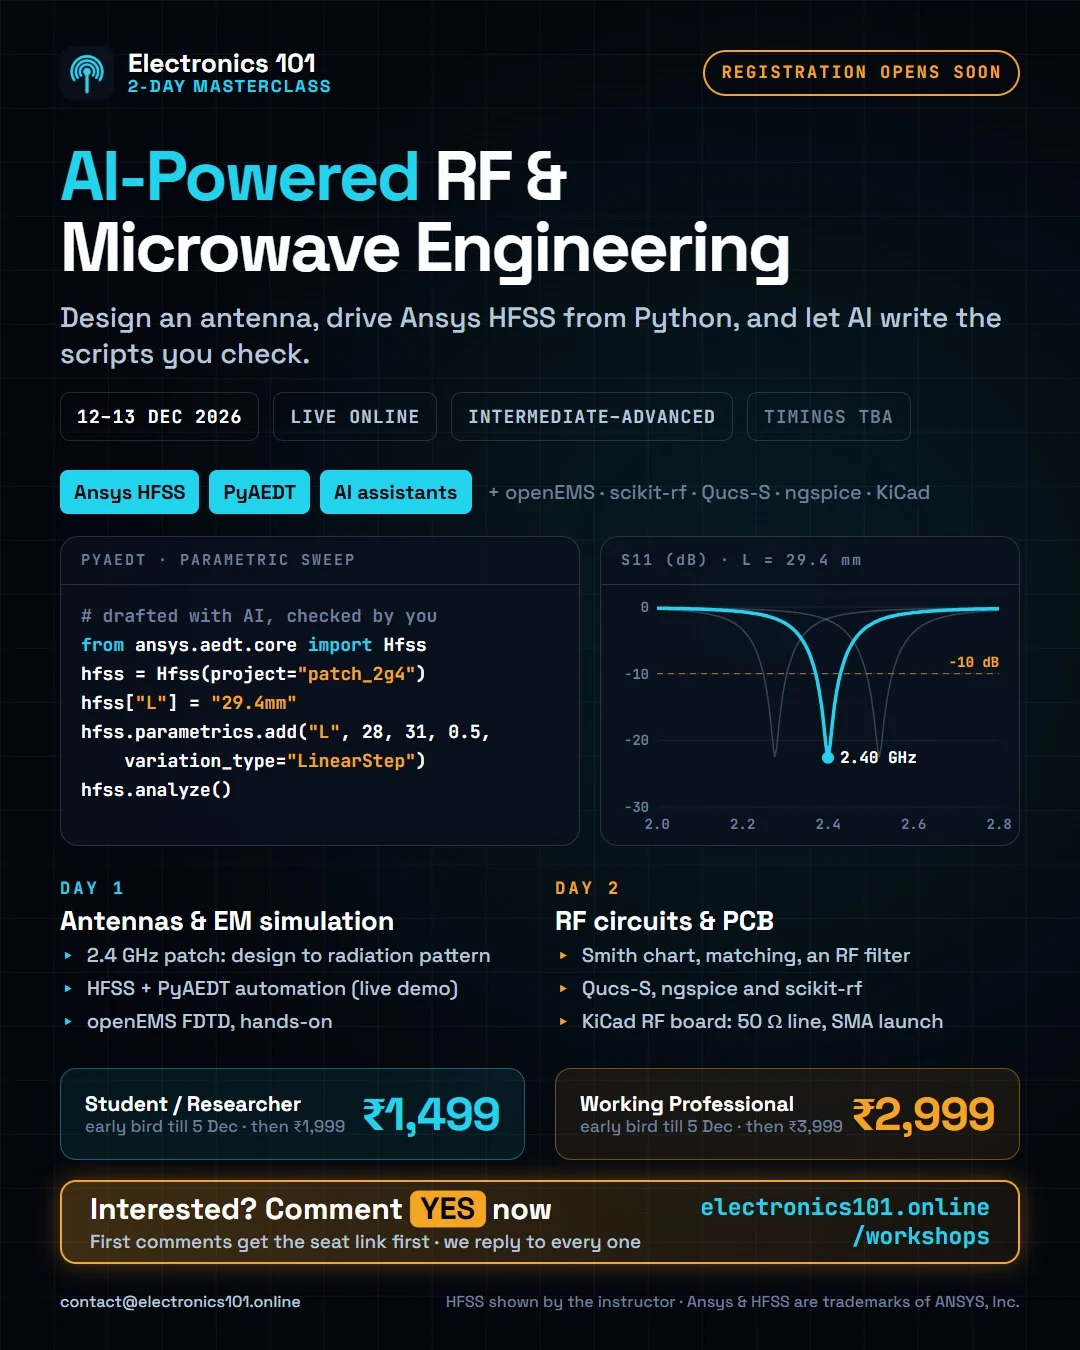
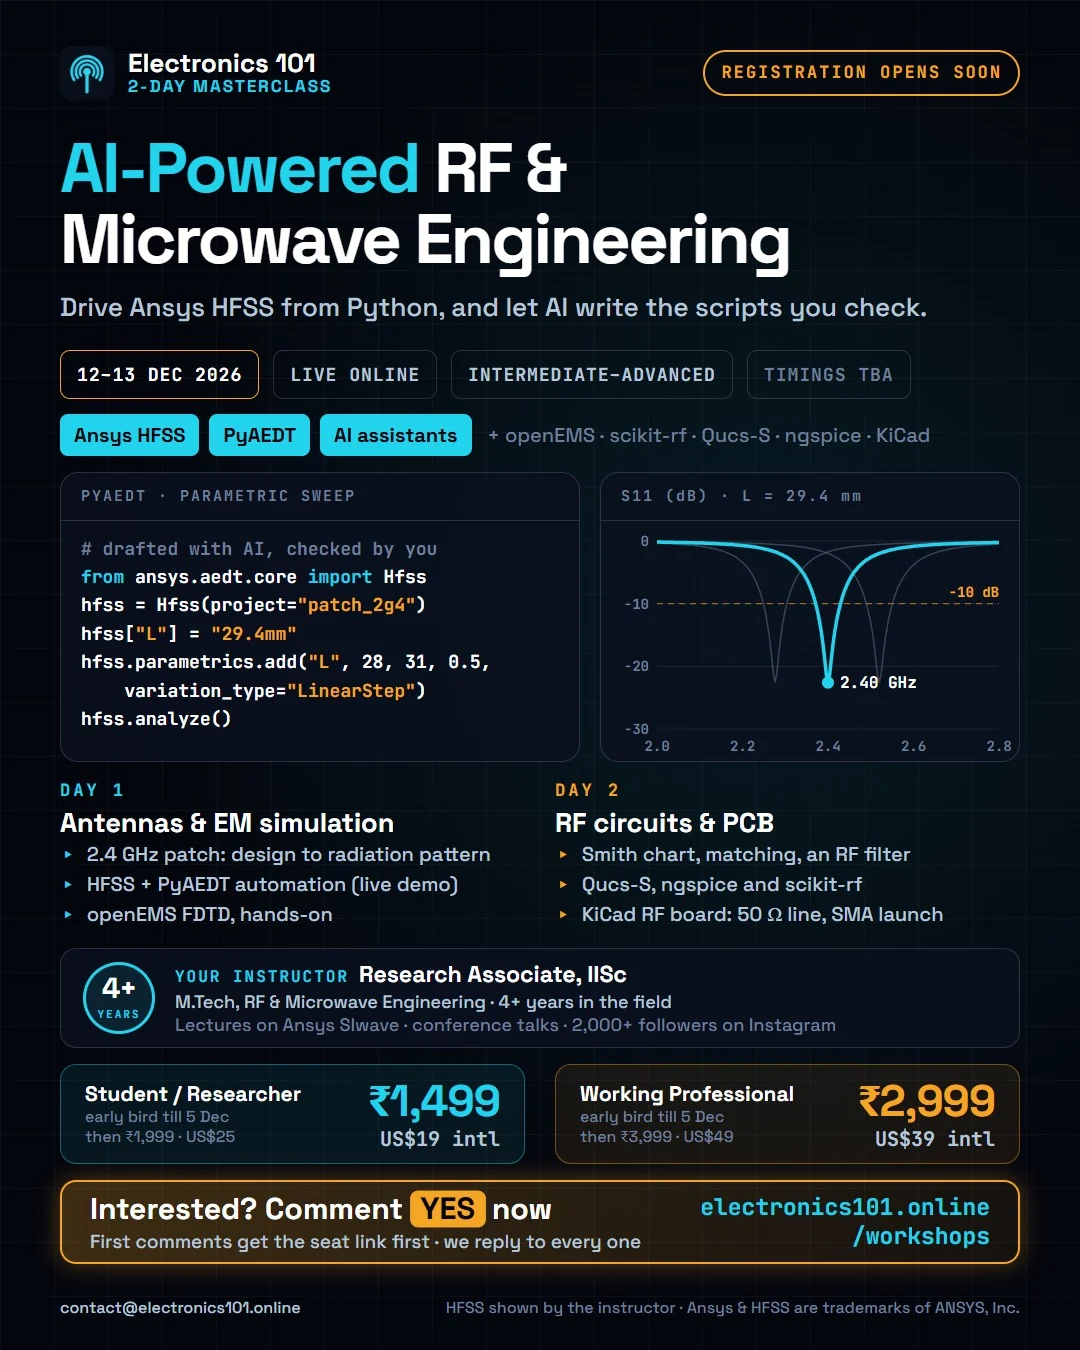
feat(workshops): January batch, US$ prices and instructor credentials
- AI-Powered RF masterclass, January batch: 2-3 Jan 2027 (Sat-Sun), same
  programme and prices, early bird till 26 Dec, own poster image.
- International prices beside the rupee ones: US$19 / US$39 early bird,
  US$25 / US$49 after (new optional priceUsd / standardPriceUsd on a tier).
- Instructor shown by credentials only, no name or photo (user, 2026-11-22):
  M.Tech RF & Microwave, Research Associate at IISc, lectures on Ansys
  SIwave and conference talks, 4+ years, 2,000+ Instagram followers.
- December poster refreshed with the comment-YES call to action.

Claude-Session: https://claude.ai/code/session_01KU8XNnGko7zA7XhxfYRQbX

diff --git a/src/content/workshops.ts b/src/content/workshops.ts
@@ -226,6 +226,137 @@ const antenna101Slot2: Workshop = {
 
 /* Slot 1 (21–25 Nov 2026) is no longer listed (user, 2026-11-22). Its object
  * stays above because Slot 2 is built from it. */
+/*
+ * Announced before registration opens (user, 2026-11-22). The tiers have no
+ * payment links yet, so the page offers an enquiry instead of Register.
+ * Timings are not fixed: `timeTba` keeps the site from showing an hour.
+ * HFSS is an instructor demo; the hands-on parts use free tools.
+ */
+const airfDec: Workshop = {
+  slug: "ai-powered-rf-microwave-engineering",
+  title: "AI-Powered RF & Microwave Engineering",
+  subtitle: "Antenna design, EM simulation and automation",
+  summary:
+    "Two days, live and online: HFSS with PyAEDT scripting, openEMS, scikit-rf, Qucs-S and KiCad, with AI used to write and debug the engineering scripts.",
+  description:
+    "A two-day masterclass on the modern RF workflow. You design a 2.4 GHz patch antenna, watch it built and swept in Ansys HFSS and driven from Python through PyAEDT, then simulate it yourself in openEMS. Day two moves to circuits and boards: S-parameters and Smith charts, matching networks and a filter in Qucs-S and ngspice, network analysis in scikit-rf, and an RF board in KiCad with a 50 Ω line and an SMA launch. Throughout, AI assistants are used the way an engineer would use them: to draft scripts, check calculations and find bugs, with every result checked against the physics.",
+  startsAt: "2026-12-12T10:00:00+05:30",
+  timeTba: true,
+  endsAt: "2026-12-13T17:00:00+05:30",
+  earlyBirdUntil: "2026-12-05T23:59:00+05:30",
+  durationLabel: "2 days · timings to be announced",
+  mode: "Live Online",
+  level: "Advanced",
+  domains: ["RF", "Antenna", "Simulation", "PCB", "AI"],
+  days: [
+    {
+      day: 1,
+      title: "Antennas, HFSS automation and open-source EM",
+      points: [
+        "Antenna fundamentals and design calculations",
+        "AI-assisted antenna design and optimisation",
+        "2.4 GHz microstrip patch: model, setup, S11 and pattern",
+        "HFSS driven from Python with PyAEDT: parametric sweeps (instructor demo)",
+        "openEMS FDTD: geometry, mesh, boundaries and results (hands-on)",
+      ],
+    },
+    {
+      day: 2,
+      title: "RF circuits, PCB and automation",
+      points: [
+        "S-parameters and Smith charts",
+        "Impedance matching and an RF filter in Qucs-S and ngspice",
+        "Network analysis with scikit-rf",
+        "RF schematic and PCB in KiCad: 50 Ω lines and SMA launches",
+        "Python analysis scripts, written and debugged with AI help",
+      ],
+    },
+  ],
+  topics: [
+    "Ansys HFSS",
+    "PyAEDT",
+    "openEMS",
+    "scikit-rf",
+    "Qucs-S",
+    "ngspice",
+    "KiCad",
+    "Python",
+    "AI-assisted scripting",
+  ],
+  projectFlow: [
+    "2.4 GHz patch antenna",
+    "HFSS + PyAEDT automation",
+    "Filter and matching network",
+    "RF PCB and transmission line",
+  ],
+  includes: [
+    "Two days of live sessions with Q&A",
+    "Digital certificate of participation",
+    "Project files, Python scripts and simulation examples",
+    "A prompt library for engineering scripts",
+    "Reference notes",
+  ],
+  audience: [
+    "B.Tech / M.Tech students",
+    "PhD scholars and researchers",
+    "Antenna and RF engineers",
+    "Microwave and electronics engineers",
+    "PCB design engineers",
+    "Faculty members",
+  ],
+  tiers: [
+    {
+      id: "student",
+      label: "Student / Researcher",
+      forWho: "Students, PhD scholars and researchers.",
+      priceInr: 1499,
+      standardPriceInr: 1999,
+      priceUsd: 19,
+      standardPriceUsd: 25,
+      href: null,
+      note: "Early bird",
+    },
+    {
+      id: "professional",
+      label: "Working Professional",
+      forWho: "Working engineers, faculty and company-sponsored participants.",
+      priceInr: 2999,
+      standardPriceInr: 3999,
+      priceUsd: 39,
+      standardPriceUsd: 49,
+      href: null,
+      note: "Early bird",
+    },
+  ],
+  /** The headline figure on cards is the lowest seat price. */
+  priceInr: 1499,
+  status: "Registration Soon",
+  instructorId: "lead",
+  /* The PR10 poster from shorts/out/PR10-AiRf.jpg. */
+  image: "/images/workshop-ai-rf.webp",
+  imageOrientation: "portrait",
+  disclaimer:
+    "Ansys and HFSS are trademarks of ANSYS, Inc. HFSS is shown by the instructor; participants need no Ansys licence for the hands-on parts. Electronics 101 is an independent educational initiative.",
+};
+
+/*
+ * The January batch (user, 2026-11-22): same programme, tiers and prices, run on the first
+ * weekend of 2027. Early bird ends 7 days before it starts. Timings not fixed yet.
+ */
+const airfJan: Workshop = {
+  ...airfDec,
+  slug: "ai-powered-rf-microwave-engineering-january",
+  title: "AI-Powered RF & Microwave Engineering — January batch",
+  subtitle: "Start the new year with new skills",
+  summary:
+    "Start the new year with new skills: two days, live and online, with HFSS and PyAEDT, openEMS, scikit-rf, Qucs-S and KiCad, and AI to write and debug the engineering scripts.",
+  startsAt: "2027-01-02T10:00:00+05:30",
+  endsAt: "2027-01-03T17:00:00+05:30",
+  earlyBirdUntil: "2026-12-26T23:59:00+05:30",
+  /* Frame 0 of the PR12 January poster. */
+  image: "/images/workshop-ai-rf-january.webp",
+};
+
 export const workshops: Workshop[] = [
   antenna101Slot2,
   {
@@ -302,114 +433,8 @@ export const workshops: Workshop[] = [
     instructorId: "lead",
     image: "/images/workshop-rf-antenna.jpg",
   },
-  /*
-   * Announced before registration opens (user, 2026-11-22). The tiers have no
-   * payment links yet, so the page offers an enquiry instead of Register.
-   * Timings are not fixed: `timeTba` keeps the site from showing an hour.
-   * HFSS is an instructor demo; the hands-on parts use free tools.
-   */
-  {
-    slug: "ai-powered-rf-microwave-engineering",
-    title: "AI-Powered RF & Microwave Engineering",
-    subtitle: "Antenna design, EM simulation and automation",
-    summary:
-      "Two days, live and online: HFSS with PyAEDT scripting, openEMS, scikit-rf, Qucs-S and KiCad, with AI used to write and debug the engineering scripts.",
-    description:
-      "A two-day masterclass on the modern RF workflow. You design a 2.4 GHz patch antenna, watch it built and swept in Ansys HFSS and driven from Python through PyAEDT, then simulate it yourself in openEMS. Day two moves to circuits and boards: S-parameters and Smith charts, matching networks and a filter in Qucs-S and ngspice, network analysis in scikit-rf, and an RF board in KiCad with a 50 Ω line and an SMA launch. Throughout, AI assistants are used the way an engineer would use them: to draft scripts, check calculations and find bugs, with every result checked against the physics.",
-    startsAt: "2026-12-12T10:00:00+05:30",
-    timeTba: true,
-    endsAt: "2026-12-13T17:00:00+05:30",
-    earlyBirdUntil: "2026-12-05T23:59:00+05:30",
-    durationLabel: "2 days · timings to be announced",
-    mode: "Live Online",
-    level: "Advanced",
-    domains: ["RF", "Antenna", "Simulation", "PCB", "AI"],
-    days: [
-      {
-        day: 1,
-        title: "Antennas, HFSS automation and open-source EM",
-        points: [
-          "Antenna fundamentals and design calculations",
-          "AI-assisted antenna design and optimisation",
-          "2.4 GHz microstrip patch: model, setup, S11 and pattern",
-          "HFSS driven from Python with PyAEDT: parametric sweeps (instructor demo)",
-          "openEMS FDTD: geometry, mesh, boundaries and results (hands-on)",
-        ],
-      },
-      {
-        day: 2,
-        title: "RF circuits, PCB and automation",
-        points: [
-          "S-parameters and Smith charts",
-          "Impedance matching and an RF filter in Qucs-S and ngspice",
-          "Network analysis with scikit-rf",
-          "RF schematic and PCB in KiCad: 50 Ω lines and SMA launches",
-          "Python analysis scripts, written and debugged with AI help",
-        ],
-      },
-    ],
-    topics: [
-      "Ansys HFSS",
-      "PyAEDT",
-      "openEMS",
-      "scikit-rf",
-      "Qucs-S",
-      "ngspice",
-      "KiCad",
-      "Python",
-      "AI-assisted scripting",
-    ],
-    projectFlow: [
-      "2.4 GHz patch antenna",
-      "HFSS + PyAEDT automation",
-      "Filter and matching network",
-      "RF PCB and transmission line",
-    ],
-    includes: [
-      "Two days of live sessions with Q&A",
-      "Digital certificate of participation",
-      "Project files, Python scripts and simulation examples",
-      "A prompt library for engineering scripts",
-      "Reference notes",
-    ],
-    audience: [
-      "B.Tech / M.Tech students",
-      "PhD scholars and researchers",
-      "Antenna and RF engineers",
-      "Microwave and electronics engineers",
-      "PCB design engineers",
-      "Faculty members",
-    ],
-    tiers: [
-      {
-        id: "student",
-        label: "Student / Researcher",
-        forWho: "Students, PhD scholars and researchers.",
-        priceInr: 1499,
-        standardPriceInr: 1999,
-        href: null,
-        note: "Early bird",
-      },
-      {
-        id: "professional",
-        label: "Working Professional",
-        forWho: "Working engineers, faculty and company-sponsored participants.",
-        priceInr: 2999,
-        standardPriceInr: 3999,
-        href: null,
-        note: "Early bird",
-      },
-    ],
-    /** The headline figure on cards is the lowest seat price. */
-    priceInr: 1499,
-    status: "Registration Soon",
-    instructorId: "lead",
-    /* The PR10 poster from shorts/out/PR10-AiRf.jpg. */
-    image: "/images/workshop-ai-rf.webp",
-    imageOrientation: "portrait",
-    disclaimer:
-      "Ansys and HFSS are trademarks of ANSYS, Inc. HFSS is shown by the instructor; participants need no Ansys licence for the hands-on parts. Electronics 101 is an independent educational initiative.",
-  },
+  airfDec,
+  airfJan,
 ];
 
 export const getWorkshop = (slug: string) => workshops.find((w) => w.slug === slug);

diff --git a/src/content/misc.ts b/src/content/misc.ts
@@ -136,17 +136,18 @@ export const publishedTestimonials = testimonials.filter((t) => t.published);
 export const instructors: Instructor[] = [
   {
     id: "lead",
-    name: "S. Roy",
-    title: "RF & Microwave Engineer",
-    bio: "A master's degree in RF and microwave engineering, and three years split between industry design work and teaching it. The courses and workshops here are built around the same simulation and verification workflow used on real design jobs — which is why they spend as much time on checking a result as on producing one.",
+    /* No name and no photo (user, 2026-11-22): presented by credentials only. */
+    title: "RF & Microwave Engineer · Research Associate, IISc",
+    bio: "A master's degree in RF and microwave engineering and more than four years working in the field, now as a research associate at the Indian Institute of Science (IISc). Gives lectures on Ansys SIwave and speaks at technical conferences, and shares RF and microwave explainers with 2,000+ followers on Instagram. The courses and workshops here are built around the same simulation and verification workflow used on real design work, which is why they spend as much time checking a result as producing one.",
     credentials: [
       "M.Tech — RF & Microwave Engineering",
-      "3+ years industry design & simulation",
-      "3+ years teaching",
+      "Research Associate, IISc",
+      "Lectures on Ansys SIwave · conference talks",
+      "4+ years in RF & microwave",
+      "2,000+ followers on Instagram",
       "100+ participants trained",
     ],
-    expertise: ["RF & Microwave", "Antenna Design", "HFSS", "ADS", "PCB"],
-    image: "/images/instructor-s-roy.jpg",
+    expertise: ["RF & Microwave", "Antenna Design", "HFSS", "SIwave", "ADS", "PCB"],
   },
 ];
 

diff --git a/src/app/workshops/[slug]/page.tsx b/src/app/workshops/[slug]/page.tsx
@@ -577,6 +577,12 @@ export default async function WorkshopDetailPage({ params }: Params) {
                           Confirm the amount on the Razorpay page before paying.
                         </p>
                       )}
+                      {tier.priceUsd ? (
+                        <p className="mt-1 text-sm font-medium text-muted tabular">
+                          International: US${tier.priceUsd}
+                          {tier.standardPriceUsd ? ` early bird · US$${tier.standardPriceUsd} after` : ""}
+                        </p>
+                      ) : null}
 
                       <div className="mt-auto pt-6">
                         {tier.href ? (

diff --git a/src/content/types.ts b/src/content/types.ts
@@ -114,6 +114,9 @@ export type RegistrationTier = {
   priceInr: number | null;
   /** What this seat costs once the early-bird deadline passes. */
   standardPriceInr?: number | null;
+  /** The same seat for international participants, in US dollars. Shown beside the ₹ price. */
+  priceUsd?: number;
+  standardPriceUsd?: number;
   /**
    * The Razorpay hosted payment link. Null or absent while the link has not
    * been created yet: the card then offers an enquiry route instead of an
